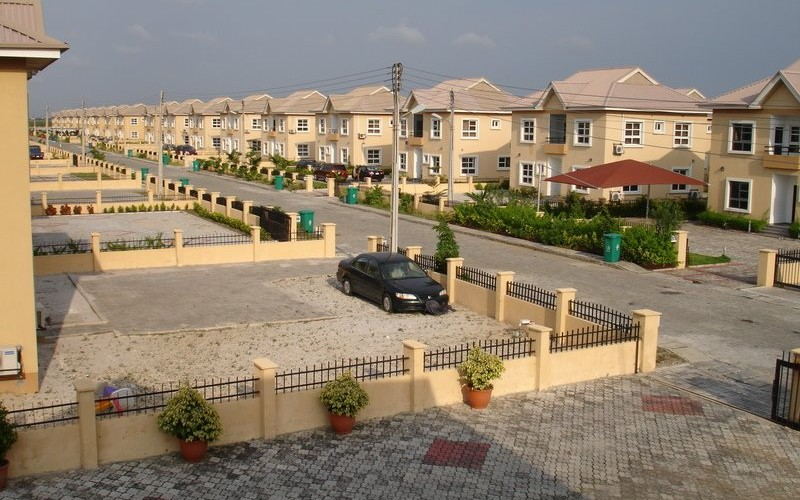
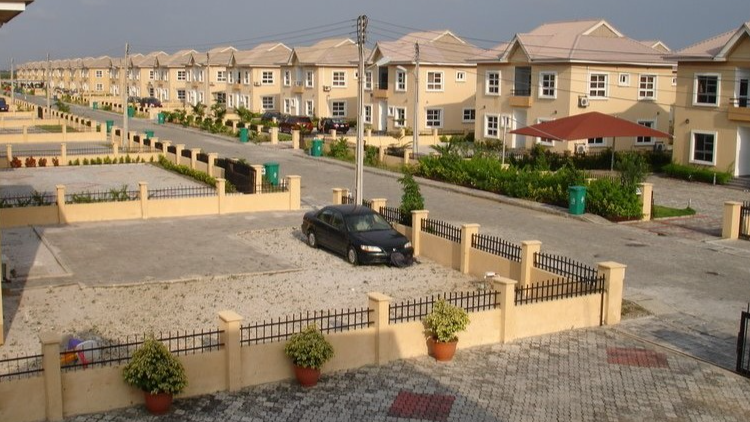
Fixed broken links

diff --git a/index.html b/index.html
@@ -106,7 +106,7 @@
       <div id="header-carousel" class="carousel slide carousel-fade" data-bs-ride="carousel">
           <div class="carousel-inner">
               <div class="carousel-item active">
-                  <img class="w-100" src="../public/assets/img/property/property1.jpg" alt="Image"/>
+                  <img class="w-100" src="./assets/img/property/property1.jpg" alt="Image"/>
                   <div class="carousel-caption d-flex flex-column align-items-center justify-content-center">
                       <div class="p-3" style="max-width: 900px;">
                           <h4 class="text-white text-uppercase mb-3 animated slideInDown">Revolutionize Your Real Estate with PMS</h4>
@@ -117,7 +117,7 @@
                   </div>
               </div>
               <div class="carousel-item">
-                  <img class="w-100" src="../public/assets/img/property/property1.jpg" alt="Image"/>
+                  <img class="w-100" src="./assets/img/property/property2.jpeg" alt="Image"/>
                   <div class="carousel-caption d-flex flex-column align-items-center justify-content-center">
                       <div class="p-3" style="max-width: 900px;">
                           <h2 class="display-4 text-white mb-md-4 animated zoomIn">Your Real Estate Portfolio is in your control</h2>
@@ -213,11 +213,11 @@
                           <h4 class="text-primary mb-0">+012 345 6789</h4>
                       </div>
                   </div>
-                  <a href="#" class="btn btn-primary py-3 px-5 mt-3 wow zoomIn" data-wow-delay="0.9s">Request A Quote</a>
+                  <a href="#quote" class="btn btn-primary py-3 px-5 mt-3 wow zoomIn" data-wow-delay="0.9s">Request A Quote</a>
               </div>
               <div class="col-lg-5" style="min-height: 500px;">
                   <div class="position-relative h-100">
-                      <img class="position-absolute w-100 h-100 rounded wow zoomIn" data-wow-delay="0.9s" src="../public/assets/img/agric.jpg" style="object-fit: cover;"/>
+                      <!-- <img class="position-absolute w-100 h-100 rounded wow zoomIn" data-wow-delay="0.9s" src="" style="object-fit: cover;"> -->
                   </div>
               </div>
           </div>
@@ -255,7 +255,7 @@
               </div>
               <div class="col-lg-4  wow zoomIn" data-wow-delay="0.9s" style="min-height: 350px;">
                   <div class="position-relative h-100">
-                      <img class="position-absolute w-100 h-100 rounded wow zoomIn" data-wow-delay="0.1s" src="img/feature.jpg" style="object-fit: cover;"/>
+                      <!-- <img class="position-absolute w-100 h-100 rounded wow zoomIn" data-wow-delay="0.1s" src="img/feature.jpg" style="object-fit: cover;"> -->
                   </div>
               </div>
               <div class="col-lg-4">
@@ -366,7 +366,7 @@
           <div class="owl-carousel testimonial-carousel wow fadeInUp" data-wow-delay="0.6s">
               <div class="testimonial-item bg-light my-4">
                   <div class="d-flex align-items-center border-bottom pt-5 pb-4 px-5">
-                      <img class="img-fluid rounded" src="img/testimonial-1.jpg" style="width: 60px; height: 60px;"/>
+                      <img class="img-fluid rounded" src="./assets/img/person13.jpg" style="width: 60px; height: 60px;"/>
                       <div class="ps-4">
                           <h4 class="text-primary mb-1">Client Name</h4>
                           <small class="text-uppercase">Profession</small>
@@ -378,7 +378,7 @@
               </div>
               <div class="testimonial-item bg-light my-4">
                   <div class="d-flex align-items-center border-bottom pt-5 pb-4 px-5">
-                      <img class="img-fluid rounded" src="img/testimonial-2.jpg" style="width: 60px; height: 60px;"/>
+                      <img class="img-fluid rounded" src="./assets/img/person13.jpg" style="width: 60px; height: 60px;"/>
                       <div class="ps-4">
                           <h4 class="text-primary mb-1">Client Name</h4>
                           <small class="text-uppercase">Profession</small>
@@ -390,7 +390,7 @@
               </div>
               <div class="testimonial-item bg-light my-4">
                   <div class="d-flex align-items-center border-bottom pt-5 pb-4 px-5">
-                      <img class="img-fluid rounded" src="img/testimonial-3.jpg" style="width: 60px; height: 60px;"/>
+                      <img class="img-fluid rounded" src="./assets/img/person13.jpg" style="width: 60px; height: 60px;"/>
                       <div class="ps-4">
                           <h4 class="text-primary mb-1">Client Name</h4>
                           <small class="text-uppercase">Profession</small>
@@ -402,7 +402,7 @@
               </div>
               <div class="testimonial-item bg-light my-4">
                   <div class="d-flex align-items-center border-bottom pt-5 pb-4 px-5">
-                      <img class="img-fluid rounded" src="img/testimonial-4.jpg" style="width: 60px; height: 60px;"/>
+                      <img class="img-fluid rounded" src="./assets/img/person13.jpg" style="width: 60px; height: 60px;"/>
                       <div class="ps-4">
                           <h4 class="text-primary mb-1">Client Name</h4>
                           <small class="text-uppercase">Profession</small>
@@ -421,13 +421,12 @@
 
 
   <!-- Quote Start -->
-  <div class="container-fluid py-5 wow fadeInUp" data-wow-delay="0.1s">
+  <div id="quote" class="container-fluid py-5 wow fadeInUp" data-wow-delay="0.1s">
       <div class="container py-5">
           <div class="row g-5">
               <div class="col-lg-7">
                   <div class="section-title position-relative pb-3 mb-5">
                       <h5 class="fw-bold text-primary text-uppercase">Request A Quote</h5>
-                      <h1 class="mb-0">Need A Free Quote? Please Feel Free to Contact Us</h1>
                   </div>
                   <div class="row gx-3">
                       <div class="col-sm-6 wow zoomIn" data-wow-delay="0.2s">
